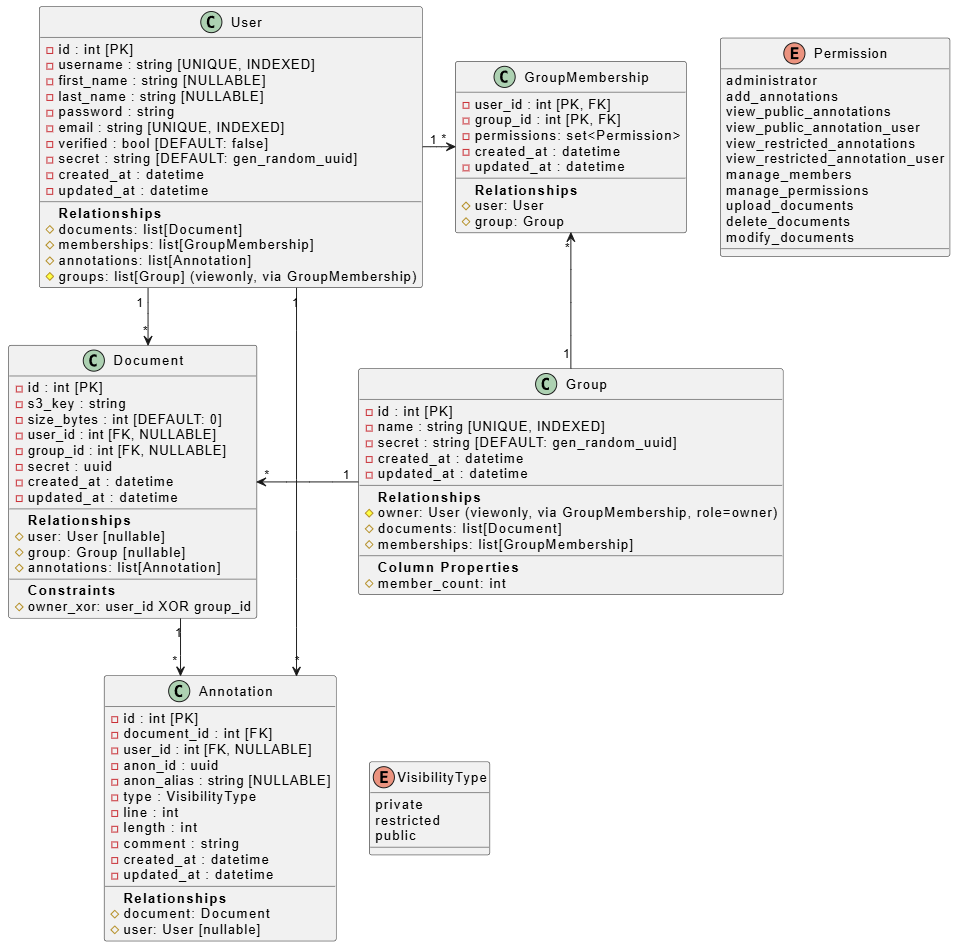
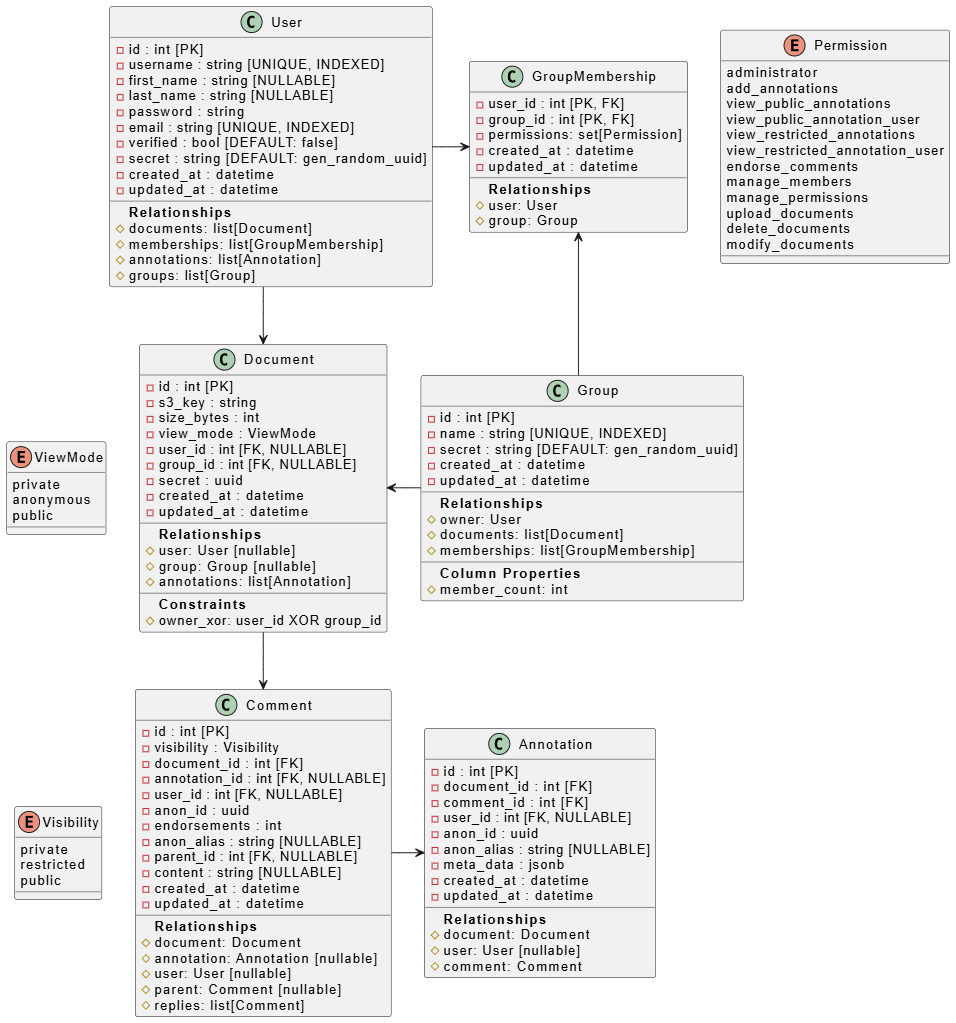
update feature doc and schema

diff --git a/docs/features.md b/docs/features.md
@@ -1,4 +1,4 @@
-# ❓ WIP  
+> ❓ Acknowledged by the stakeholder on October 2, 2025  
 
 # ✨ Features  
 
@@ -15,6 +15,7 @@ This document outlines all **user-facing** features of the annotation software p
 ## 🔑 1.2 Login  
 - Secure login with **email + password**  
 - **Session management** via secure cookies  
+- Account recovery via **email**
 
 ## 🏠 1.3 Profile & Dashboard  
 Each user has a personal profile/dashboard containing:  
@@ -28,11 +29,11 @@ Each user has a personal profile/dashboard containing:
 ## 👥 1.4 Groups  
 - Users can **create groups** for collaboration  
 - Group owners can invite others via **email, username, or invite URL**  
-- Role-based permissions determine actions (add annotations, manage docs, manage members, etc.)  
 
 ### 🔒 1.4.1 Permissions  
 - **Fine-grained access control** at group level  
 - Permission structure documented in the [database schema](./schema.puml)  
+- Determines what actions users can perform within a group (e.g., manage documents, manage members, view restricted comments)
 
 ---
 
@@ -41,31 +42,51 @@ Each user has a personal profile/dashboard containing:
 ## 📤 2.1 Document Handling  
 - Upload **personal or group documents (PDFs only initially)**  
 - Transfer documents between **users & groups**  
-- **Persistent share links** with permission control (read / annotate / manage)  
+- **Persistent share links** with [permission](#-14-permissions) control
   - Share links are **revocable per-document**  
   - Share links can be used to work on documents without an account (User is prompted to create an account but can skip it and use an alias temporarily)
-- Group documents: accessible to all members (editable depending on permissions)  
-- **Annotation Visibility Mode**  
-  - Toggle visibility of annotations (e.g. teacher mode to hide/show student annotations)  
+- **View Mode**  
+  The view mode can be changed by the document owner for personal documents or by authorized group members for group documents. It controls how annotations are displayed to regular viewers (users without permissions to view restricted content).
+  - **Private:** Regular viewers can only see their own annotations & comments
+  - **Anonymous:** Regular viewers see all public annotations & comments but without info about the creator
+  - **Public:** Regular viewers see all public annotations & comments with creator info
+- **Live sync**: [annotations](#-22-annotations) & [comments](#-23-comments) are instantly shared with all users who have access (based on visibility settings + doc mode)
 
 ## 🖊 2.2 Annotations  
 - Create annotations with a **visual editor**  
-- Annotation types:  
-  - **Private** → only visible to creator  
-  - **Restricted** → visible to group members with permission  
-  - **Public** → visible to all group users  
-- **Live sync**: annotations instantly shared with all users who have access (based on visibility settings + doc mode)  
+  - Text highlights initially (other types like shapes, drawings, etc. may be added later)  
+  - Optionally add a [comment](#-221-comments) to an annotation  
+  *(Annotations internally create a an empty comment to associate them with a visibility level and user)*  
 - Anonymous annotation creation with **temporary alias** (via shared links)(no account needed)
   - *(If browser storage is not cleared)* Previous anonymous annotations are linked to a user on account creation
+
+
+## 📜 2.3 Comments
+
+- **Visibility**  
+  Comments can have different visibility types that (in combination with the document's View Mode) determine if other document viewers can see them.
+  - **Private** → only visible to creator  
+  - **Restricted** → visible to group members with permission to view restricted comments
+  - **Public** → visible to all group users  
+- Comments can be
+  - document comments (restricted visibility by default)
+  - annotation comments (public visibility by default)
+  - replies to other comments (inherit visibility from parent comment)
+- Comment visibility can be changed by the creator
+- Comments support **threaded replies**
+- Comments can be **edited or deleted** by their creator
+- Anonymous commenting with **temporary alias** (via shared links)(no account needed)
+  - *(If browser storage is not cleared)* Previous anonymous comments are linked to a user on account creation
 
 ---
 
 # 💡 Additional Feature Ideas  
 
 *(Future / optional extensions that may be too complex for initial release)*  
+This section will be expanded as the project progresses.  
 
 | Idea | Description |
 |------|-------------|
-| 🏆 **Score Templates** | Document managers predefine template annotations with scores → users earn points for matching annotations |
+| 🏆 **Endorsements** | Document viewers (with endorse permission) can endorse annotations, endorsements are listed in the user statistics and endorsed comments can be highlighted depending on number of endorsements |
 | 💬 **Annotation Replies** | Threaded replies for annotations, turning them into discussions |
 | 🗂 **Versioning** | Automatic or manual versioning of annotated documents → owners can browse history & revert changes |

diff --git a/docs/plan.md b/docs/plan.md
@@ -1,4 +1,4 @@
-> ❓ This document was acknowledged by and presented to the stakeholder on September 1, 2025
+> ❓ This document was acknowledged by and presented to the stakeholder on October 1, 2025
 
 # 🏛 1 Architecture
 
